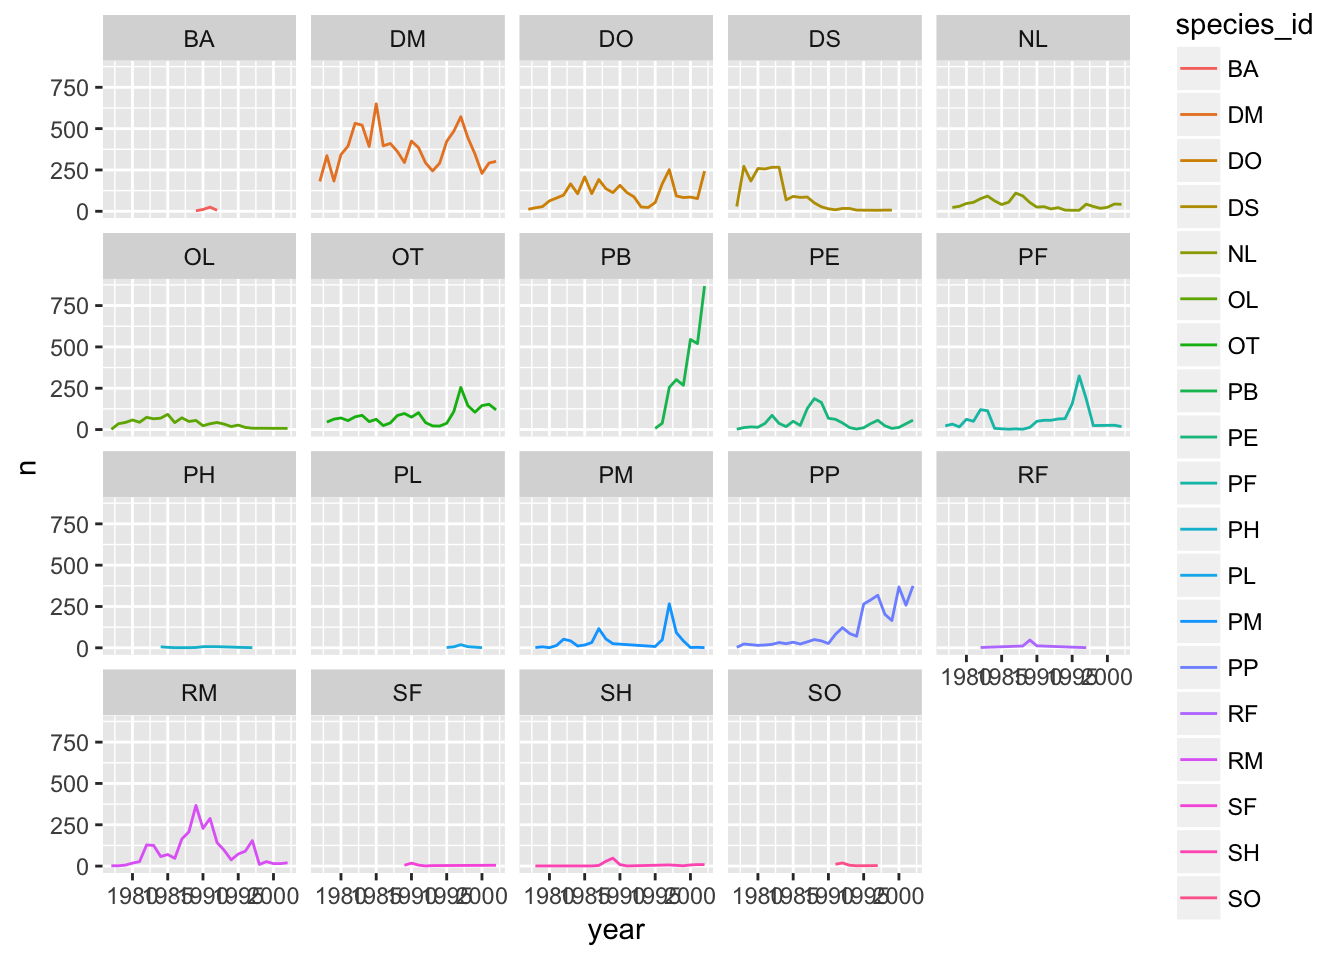
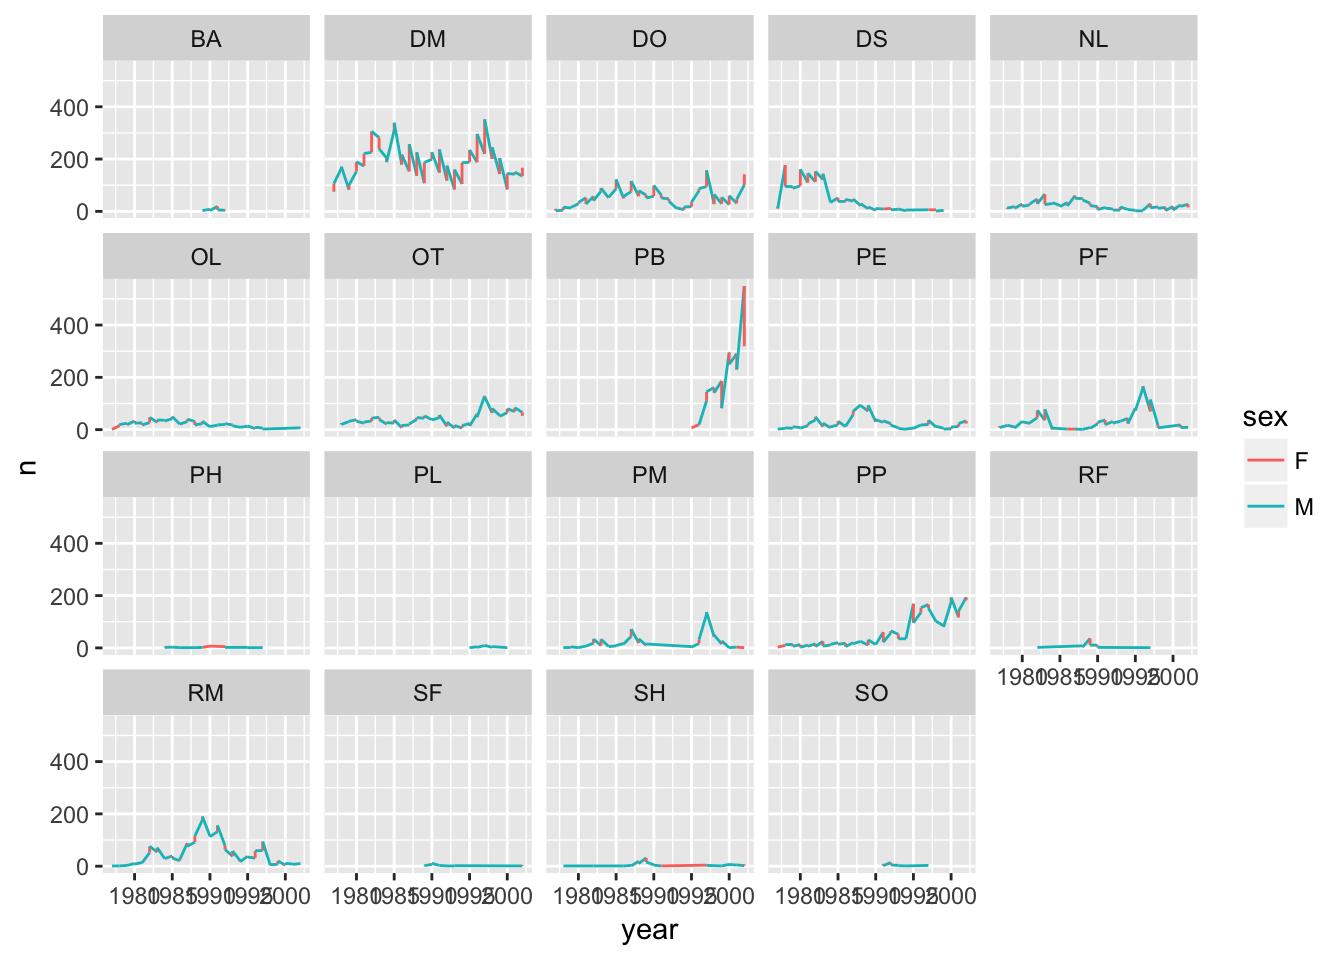
Update 03-ggplot2.html and challenge slides

diff --git a/03-ggplot2.html b/03-ggplot2.html
@@ -223,7 +223,7 @@ just_dm &lt;-<span class="st"> </span>surveys <span class="op">%&gt;%</span><spa
 <p><em>Make a data set called <code>year_summary</code> that contains the yearly average weight, hindfoot length, and count data for each species and sex combination.</em></p>
 </blockquote>
 <div class="sourceCode"><pre class="sourceCode r"><code class="sourceCode r">year_summary &lt;-<span class="st"> </span>surveys <span class="op">%&gt;%</span>
-<span class="st">    </span><span class="kw">group_by</span>(species_id, year) <span class="op">%&gt;%</span>
+<span class="st">    </span><span class="kw">group_by</span>(species_id, year, sex) <span class="op">%&gt;%</span>
 <span class="st">    </span><span class="kw">summarize</span>(<span class="dt">mean_wt=</span><span class="kw">mean</span>(weight),
               <span class="dt">mean_hfl=</span><span class="kw">mean</span>(hindfoot_length),
               <span class="dt">n=</span><span class="kw">n</span>())</code></pre></div>
@@ -284,10 +284,10 @@ p2 &lt;-<span class="st"> </span>p1 <span class="op">+</span><span class="st"> <
 <p><img src="img/R-ecology-scatter_colored_by_species-1.png" width="672" /></p>
 <div id="challenge-1" class="section level3">
 <h3>Challenge</h3>
-<p>Make a scatterplot of mean <code>hindfoot_length</code> vs mean <code>weight</code>, where each point is a species.</p>
+<p>Make a scatterplot of mean <code>hindfoot_length</code> vs mean <code>weight</code>, where each point is a species, and where the sizes of points indicate the sample size.</p>
 <ul>
 <li><p>Use the dataset we’d created, <code>stat_summary</code></p></li>
-<li><p>Use our ggplot code with the aesthetics <code>x=mean_wt</code> and <code>y=mean_hfl</code>.</p></li>
+<li><p>Use our ggplot code with the aesthetics <code>x=mean_wt</code> and <code>y=mean_hfl</code>, plus <code>size=n</code>.</p></li>
 </ul>
 <!-- end challenge -->
 </div>
@@ -332,7 +332,8 @@ p2 &lt;-<span class="st"> </span>p1 <span class="op">+</span><span class="st"> <
 <div id="challenge-2" class="section level3">
 <h3>Challenge</h3>
 <ul>
-<li>Use the <code>year_summary</code> dataset to make a line plot of counts of each species by year, with a different line for each species.</li>
+<li><p>Use the <code>year_summary</code> dataset to make a line plot of counts of each species by year, with a different line for each species.</p></li>
+<li><p>Use <code>aes(linetype=sex)</code> to have different line types for the two sexes.</p></li>
 </ul>
 <!-- end challenge -->
 </div>
@@ -367,9 +368,9 @@ p2 &lt;-<span class="st"> </span>p1 <span class="op">+</span><span class="st"> <
 </div>
 <div id="faceting" class="section level2">
 <h2>Faceting</h2>
-<p>ggplot has a special technique called <em>faceting</em> that allows to split one plot into multiple papels based on a factor included in the dataset. We will use it to make one plot for a time series for each species.</p>
-<div class="sourceCode"><pre class="sourceCode r"><code class="sourceCode r"><span class="kw">ggplot</span>(year_summary, <span class="kw">aes</span>(<span class="dt">x =</span> year, <span class="dt">y =</span> n, <span class="dt">group =</span> species_id, <span class="dt">color =</span> species_id)) <span class="op">+</span>
-<span class="st">    </span><span class="kw">geom_line</span>() <span class="op">+</span>
+<p>ggplot has a special technique called <em>faceting</em> that allows to split one plot into multiple papels based on a factor included in the dataset. We will use it to make one plot for a time series for each species. Here I’m using color for the two sexes.</p>
+<div class="sourceCode"><pre class="sourceCode r"><code class="sourceCode r"><span class="kw">ggplot</span>(year_summary, <span class="kw">aes</span>(<span class="dt">x =</span> year, <span class="dt">y =</span> n, <span class="dt">group =</span> species_id)) <span class="op">+</span>
+<span class="st">    </span><span class="kw">geom_line</span>(<span class="kw">aes</span>(<span class="dt">color=</span>sex)) <span class="op">+</span>
 <span class="st">    </span><span class="kw">facet_wrap</span>(<span class="op">~</span><span class="st"> </span>species_id)</code></pre></div>
 <p><img src="img/R-ecology-first-facet-1.png" width="672" /></p>
 <div id="challenge-5" class="section level3">
@@ -377,7 +378,7 @@ p2 &lt;-<span class="st"> </span>p1 <span class="op">+</span><span class="st"> <
 <p>Use the <code>year_summary</code> dataset and make scatterplots of mean hindfoot length vs mean weight (with each point being a species), faceting by year.</p>
 <ul>
 <li><p>Use aesthetics <code>x=mean_wt</code> and <code>y=mean_hfl</code></p></li>
-<li><p>Use <code>geom_point(aes(color=species_id))</code></p></li>
+<li><p>Use <code>geom_point(aes(color=species_id, shape=sex))</code></p></li>
 <li><p>Use <code>facet_wrap(~ year)</code></p></li>
 </ul>
 <!-- end challenge -->

diff --git a/challenge_slides.html b/challenge_slides.html
@@ -21,16 +21,17 @@
 </div>
 <div id="challenge-2" class="slide section level1">
 <h1>Challenge 2</h1>
-<p>Make a scatterplot of mean <code>hindfoot_length</code> vs mean <code>weight</code>, where each point is a species.</p>
+<p>Make a scatterplot of mean <code>hindfoot_length</code> vs mean <code>weight</code>, where each point is a species, and where the sizes of points indicate the sample size.</p>
 <ul>
 <li><p>Use the dataset we’d created, <code>stat_summary</code></p></li>
-<li><p>Use our ggplot code with the aesthetics <code>x=mean_wt</code> and <code>y=mean_hfl</code>.</p></li>
+<li><p>Use our ggplot code with the aesthetics <code>x=mean_wt</code> and <code>y=mean_hfl</code>, plus <code>size=n</code>.</p></li>
 </ul>
 </div>
 <div id="challenge-3" class="slide section level1">
 <h1>Challenge 3</h1>
 <ul>
-<li>Use the <code>year_summary</code> dataset to make a line plot of counts of each species by year, with a different line for each species.</li>
+<li><p>Use the <code>year_summary</code> dataset to make a line plot of counts of each species by year, with a different line for each species.</p></li>
+<li><p>Use <code>aes(linetype=sex)</code> to have different line types for the two sexes.</p></li>
 </ul>
 </div>
 <div id="challenge-4" class="slide section level1">
@@ -47,7 +48,7 @@
 <p>Use the <code>year_summary</code> dataset and make scatterplots of mean hindfoot length vs mean weight (with each point being a species), faceting by year.</p>
 <ul>
 <li><p>Use aesthetics <code>x=mean_wt</code> and <code>y=mean_hfl</code></p></li>
-<li><p>Use <code>geom_point(aes(color=species_id))</code></p></li>
+<li><p>Use <code>geom_point(aes(color=species_id, shape=sex))</code></p></li>
 <li><p>Use <code>facet_wrap(~ year)</code></p></li>
 </ul>
 </div>
